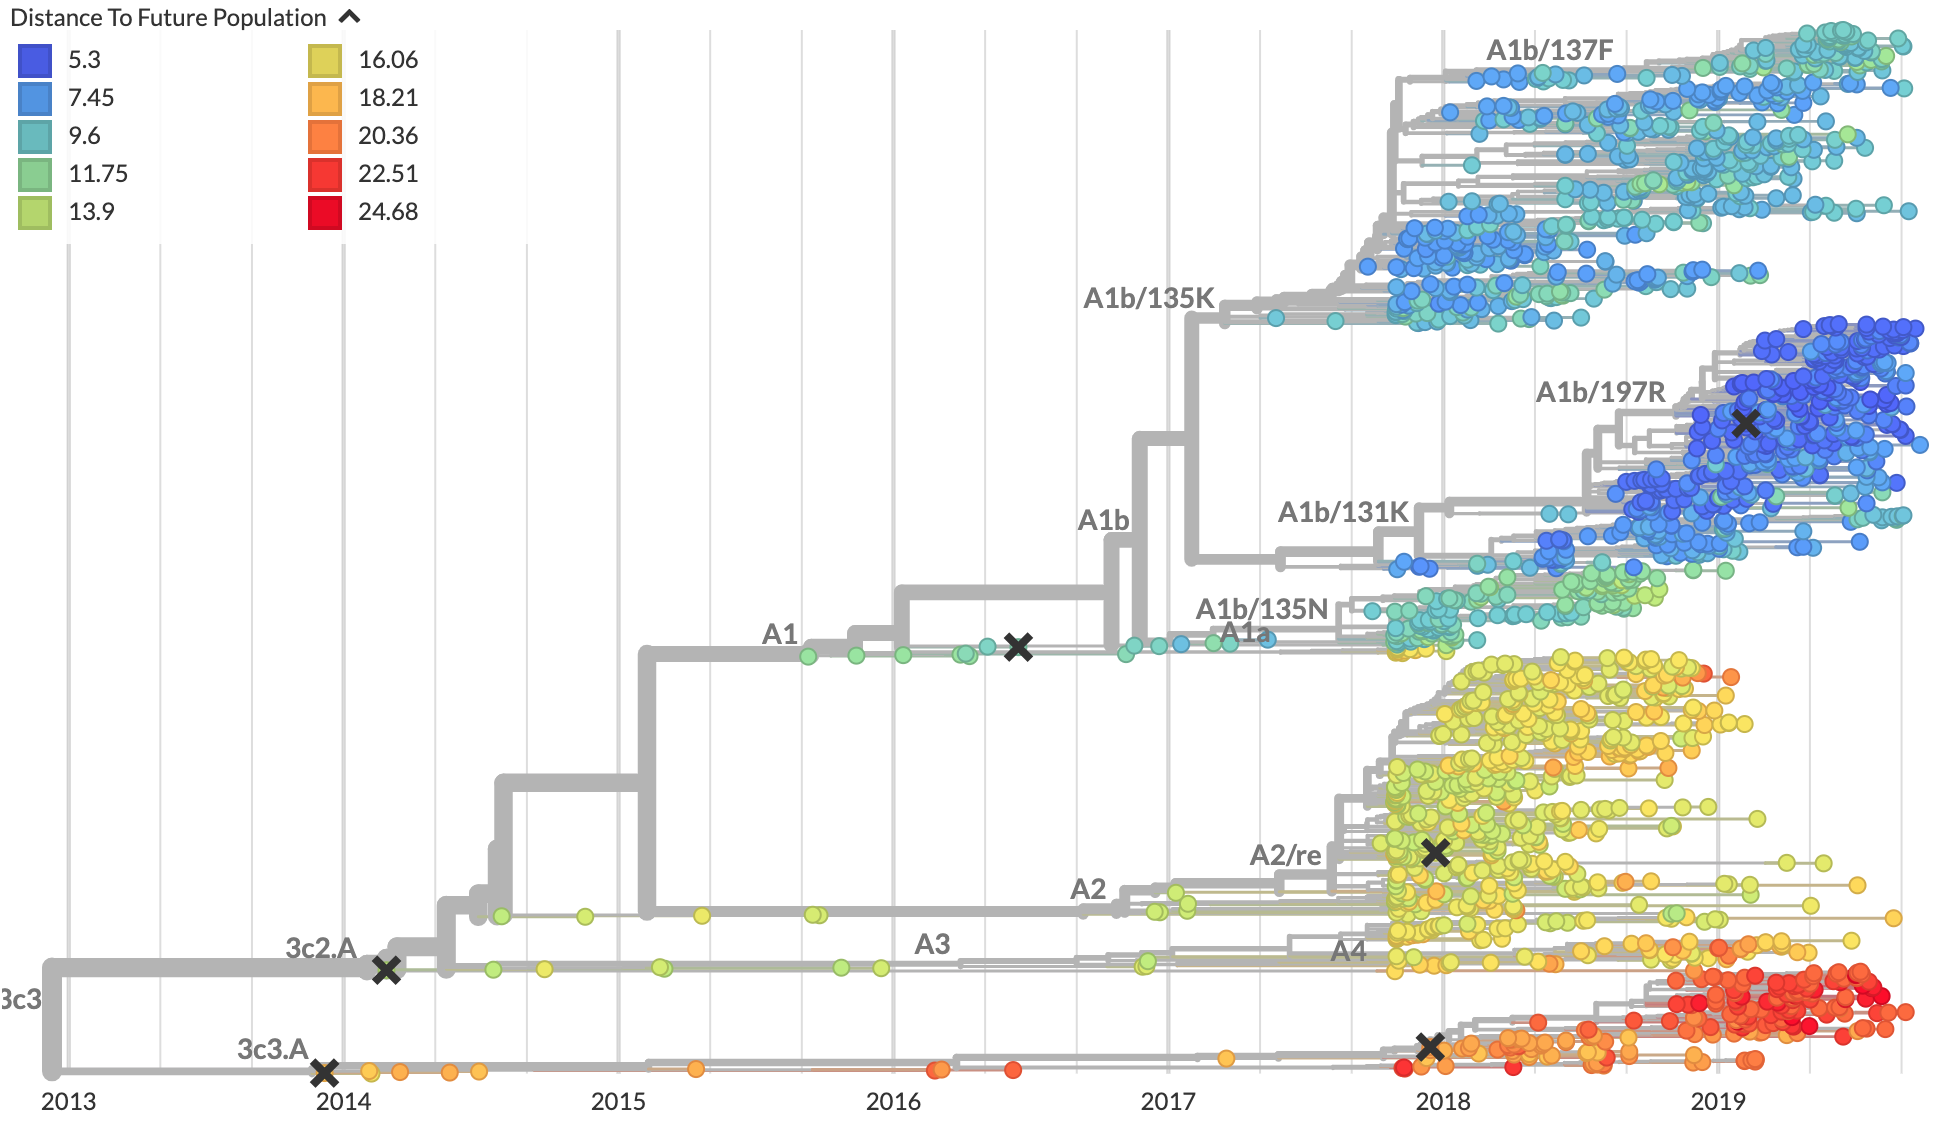
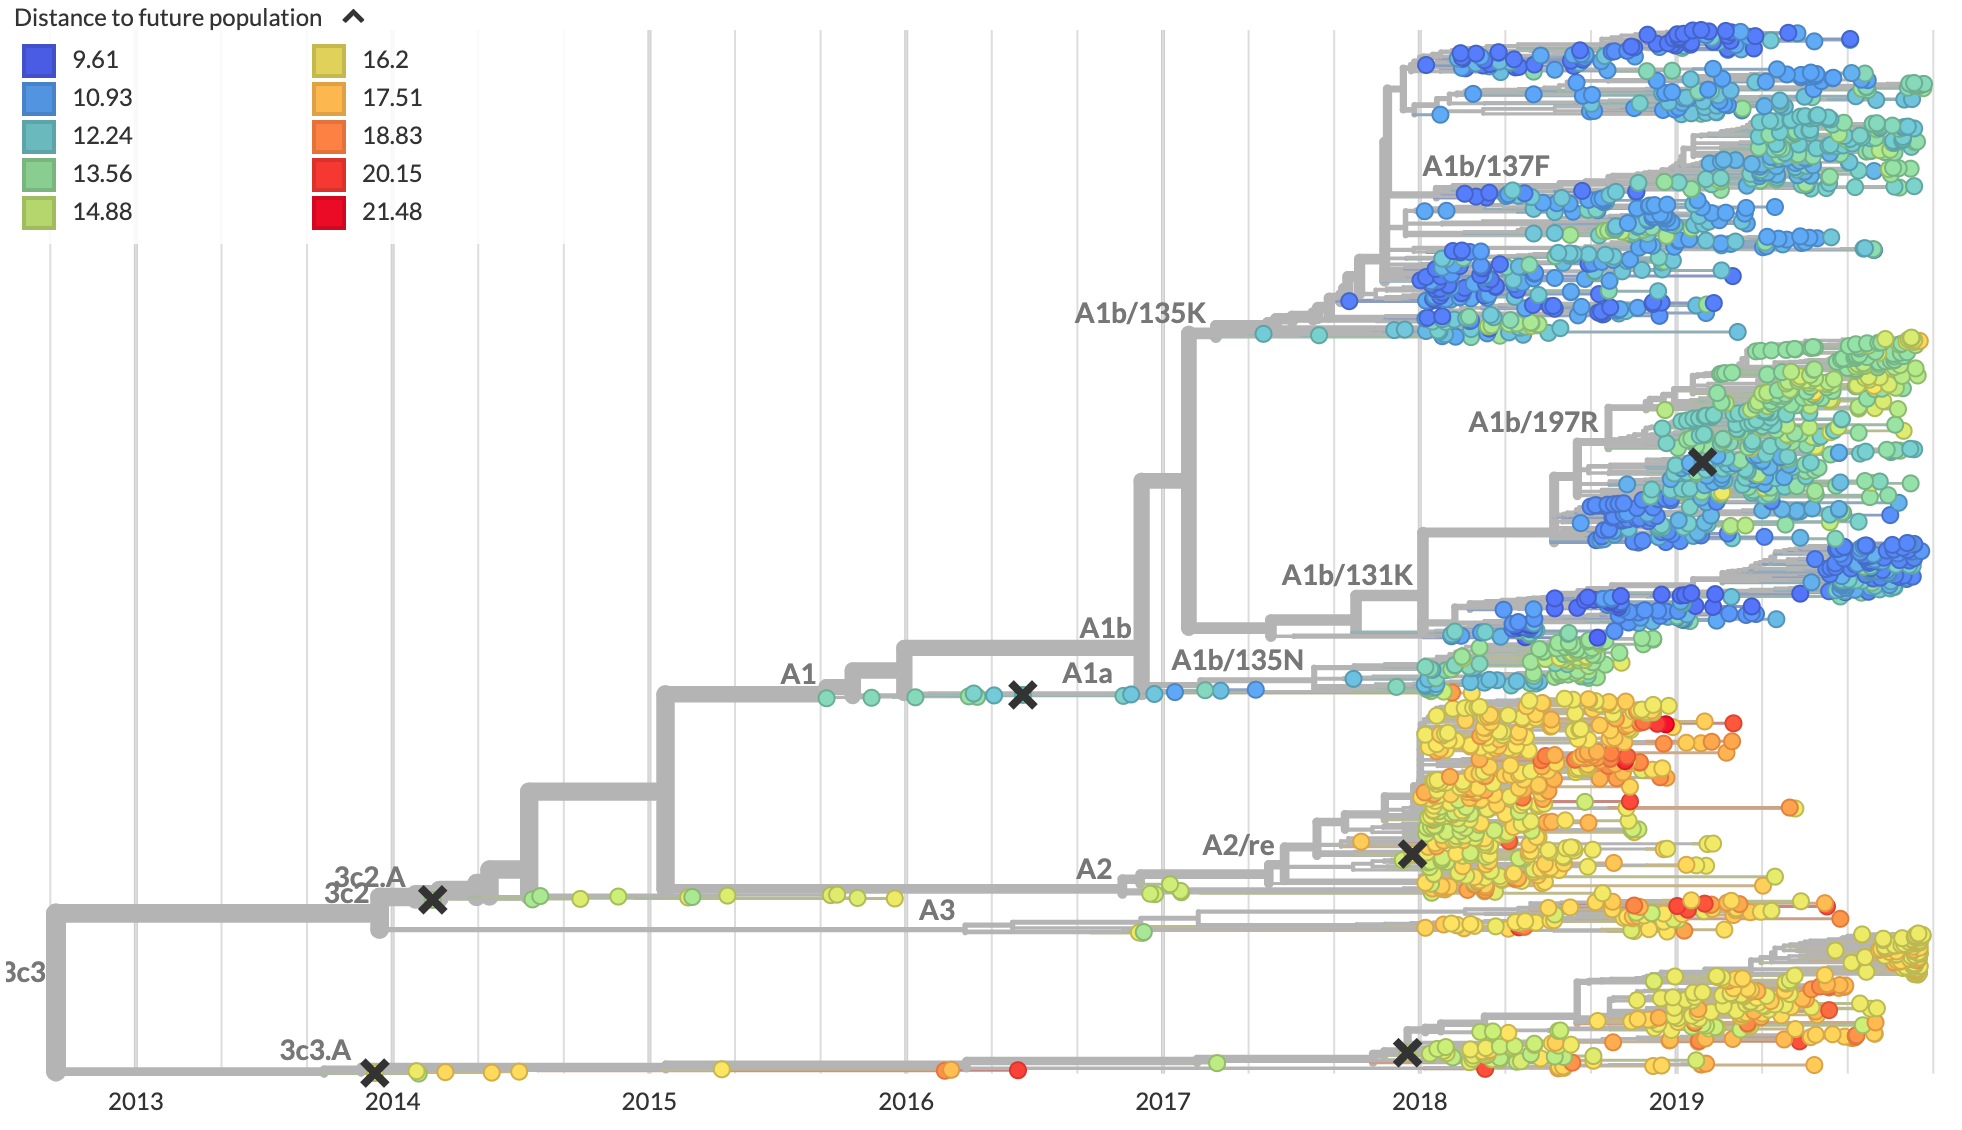
Update Nextstrain figures of forecasts and associated results
These figures reflect the integration of the HI cross-immunity and mutational
load model into nextstrain.org for seasonal flu builds.

Changed region(s): [[0.0, 0.0, 1.0, 0.9912], [0.0, 0.0, 0.1854, 0.2168], [0.1854, 0.031, 0.2163, 0.2168]]

diff --git a/manuscript/main.tex b/manuscript/main.tex
@@ -354,16 +354,16 @@ Interestingly, the FRA cross-immunity metric received a consistently positive co
 These results indicate that this FRA-based composite could eventually replace the HI-based composite with mutational load.
 
 After confirming the coefficients for our best model of HI cross-immunity and mutational load, we inspected forecasts of H3N2 clades from January 2020 to 2021.
-Of the three major currently circulating clades, our model predicted the growth of A1b/197R, the maintenance of A1b/137F, and the decline of 3c3.A (Fig.~\ref{fig:nextstrain_forecasts}).
+Of the three major currently circulating clades, our model predicted growth of the clades A1b/131K and 3c3.A and decline of all other clades (Fig.~\ref{fig:nextstrain_forecasts}).
 To aid with identification of potential vaccine candidates for the next season, we annotated strains in the phylogeny by their estimated distance to the future based on our best model (Fig.~\ref{fig:nextstrain_distance_to_future}).
 
 \begin{figure*}[ht]
   \begin{center}
-  \includegraphics[width=\textwidth]{figures/nextstrain-forecasts-for-september-2020.png}
+  \includegraphics[width=\textwidth]{figures/nextstrain-forecasts.png}
   \caption{
-    Snapshot of live forecasts on nextstrain.org from our best model for September 2020.
-    The observed frequency trajectories for currently circulating clades are shown up to September 2019.
-    Our model favors the A1b/131K subclade, A1b/197R, to grow over the next year and estimates that the A1b/135K subclade, A1b/137F, will remain stable.
+    Snapshot of live forecasts on nextstrain.org from our best model (HI cross-immunity and mutational load) for January 2021.
+    The observed frequency trajectories for currently circulating clades are shown up to January 2020.
+    Our model forecasts growth of the clades A1b/131K and 3c3.A and decline of all other major clades.
   }
   \label{fig:nextstrain_forecasts}
   \end{center}
@@ -374,7 +374,7 @@ To aid with identification of potential vaccine candidates for the next season, 
   \includegraphics[width=\textwidth]{figures/nextstrain-weighted-distance-to-future-per-strain.png}
   \caption{
     Snapshot of the last two years of seasonal influenza H3N2 evolution on nextstrain.org showing the estimated distance per sample to the future population.
-    Distance to the future is calculated for each sample as the Hamming distance of HA amino acid sequences to all other circulating strains weighted by the other sample's projected frequencies under the best fitness model.
+    Distance to the future is calculated for each sample as the Hamming distance of HA amino acid sequences to all other circulating strains weighted by the other sample's projected frequencies under the best fitness model (HI cross-immunity and mutational load).
   }
   \label{fig:nextstrain_distance_to_future}
   \end{center}
